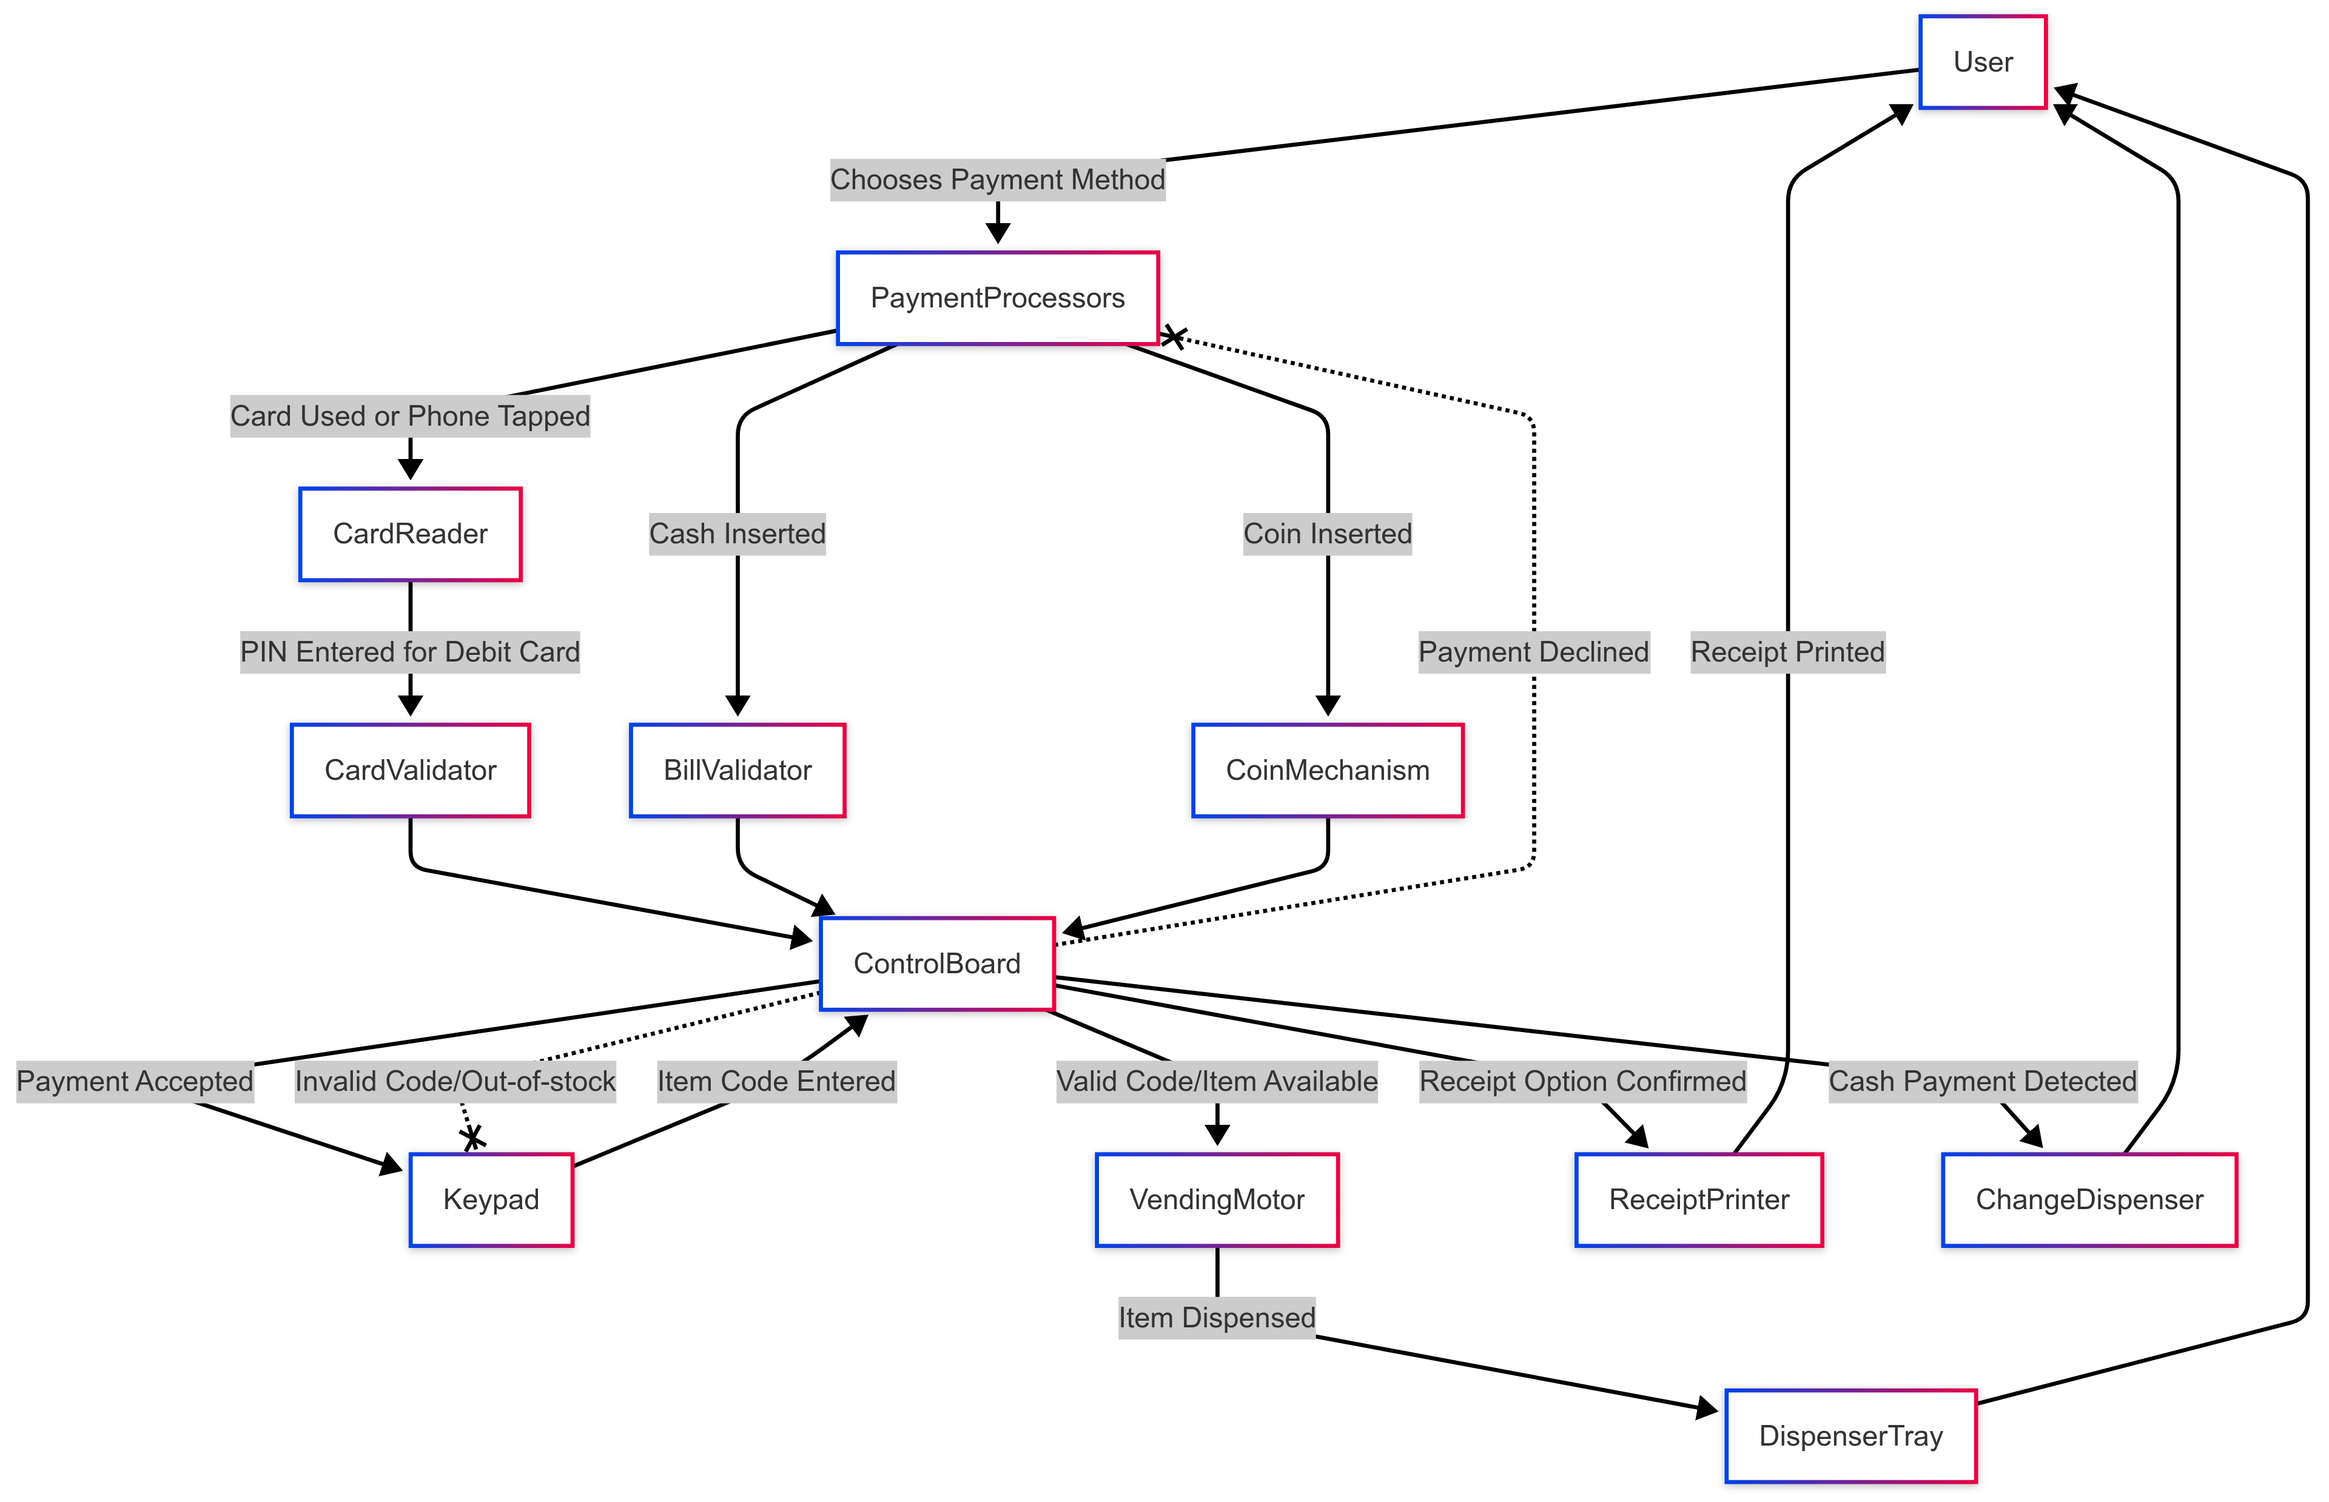
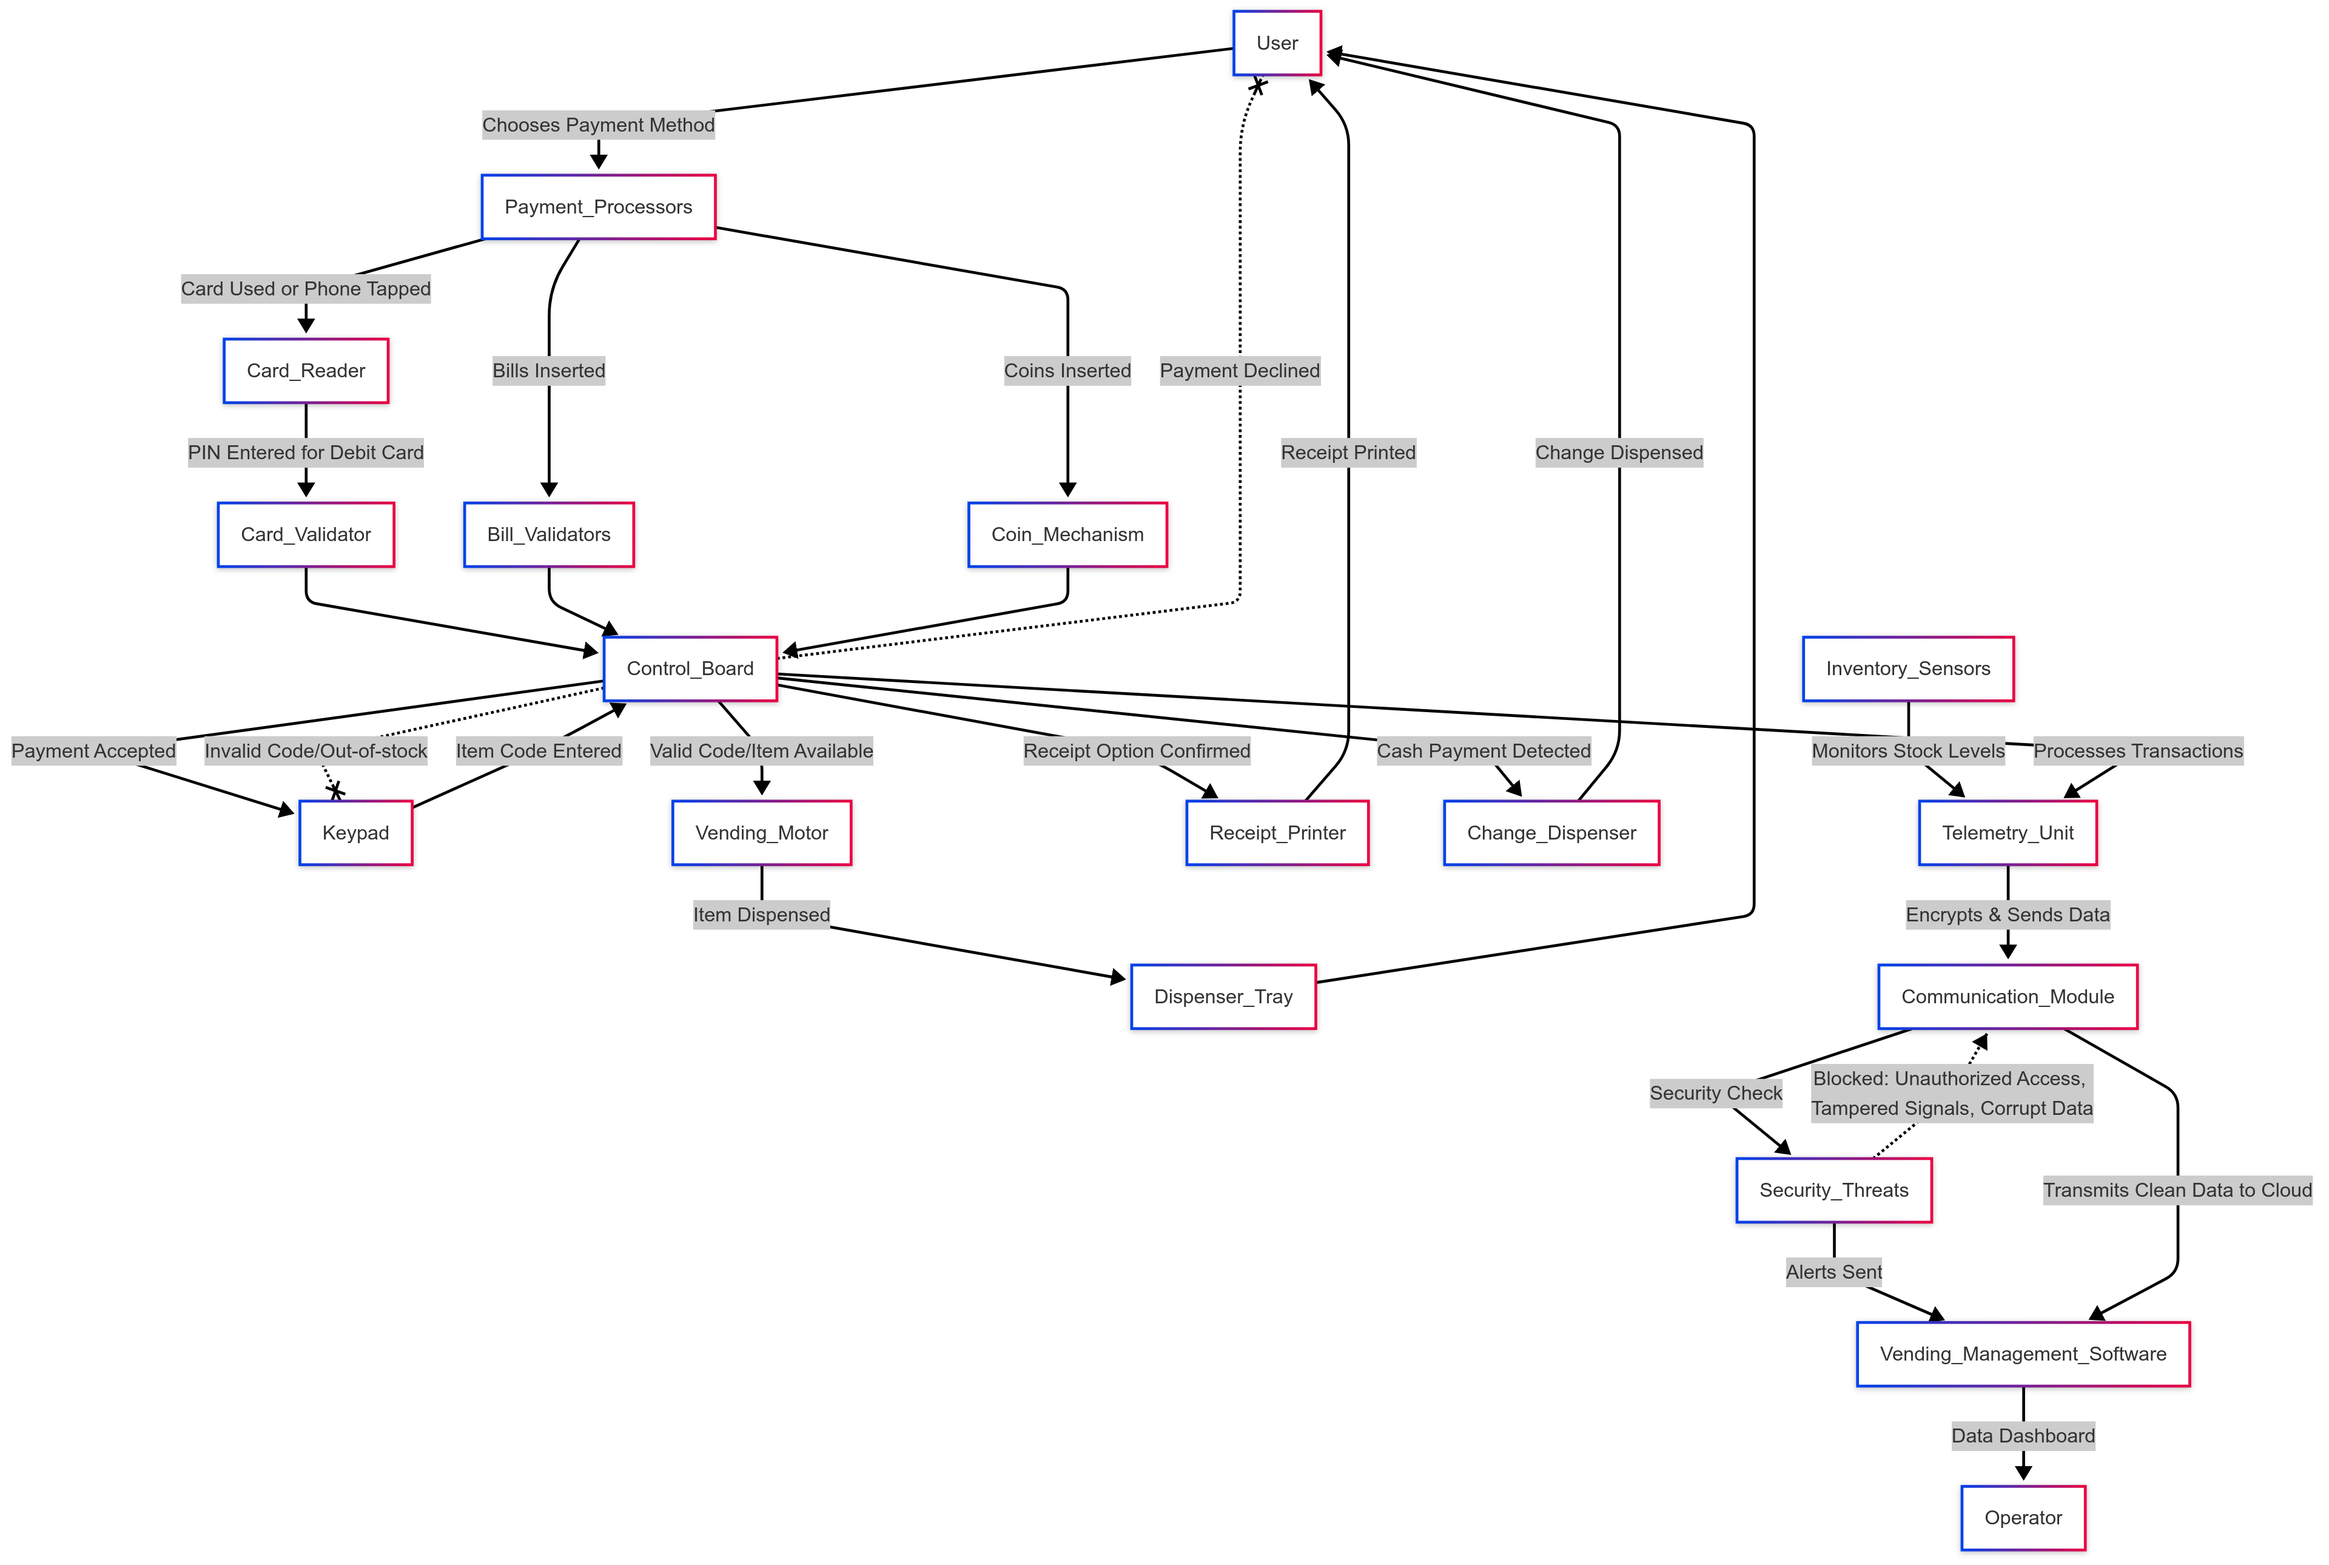
Modified two diagrams and asset analysis

diff --git a/asset-analysis.md b/asset-analysis.md
@@ -1,27 +1,31 @@
 # What assets exists in this system?
-- Control Board: controls the system to execute all operations
-- Credit Reader: allows a machine to communicate with payment system
-- Bill Validator: uses optical sensors that analyze the features of a bill to verify its authenticity
-- Coin Mechanism: uses light sensors to identify, classify, and validate inserted coins
-- Vending Lock: pervents anuthorized users from interfering with your vending inventory or cash
-- Vending Motor: delivers products by transporting a product from the storage area to the dispensing area
-- Refrigerator: keeps products at the desired storage temperature, essential for food
-- Dispensing Tray: holds products in place so they don’t fall to the bottom of the vending machine
-- Product: drink or/and food inside the vending machine
-- Cash and Coins: the physical money to use in transactions
-- Data: credit-card information and system record
+ **Control Board**: Manages the system to execute operations like processing payments, releasing products, tracking inventory, and handling errors.
+- **Communication Module**: Facilitates the secure and efficient exchange of data between system components.
+- **Inventory Sensors**: Track stock levels in real-time and automatically update inventory data.
+- **Credit Reader**: Allows the machine to communicate with the payment system.
+- **Bill Validator**: Verifies the authenticity of bills using optical sensors to analyze their features.
+- **Coin Mechanism**: Identifies, classifies, and validates inserted coins using light sensors.
+- **Vending Lock**: Prevents unauthorized access to the vending inventory and cash.
+- **Vending Motor**: Delivers products by moving them from the storage area to the dispensing area.
+- **Refrigerator**: Maintains the desired storage temperature for products, essential for food items.
+- **Dispensing Tray**: Holds products in place to prevent them from falling to the bottom of the vending machine.
+- **Products**: Drinks and/or food inside the vending machine.
+- **Cash and Coins**: Currency stored within the machine.
+- **Data**: Includes credit card information and system records.
 
 # What assets are most valuable?
 ## Based on Price:
-- Refrigerator: $800
-- Control Board: $500
-- Bill Validator: $300
-- Credit Reader: $200
-- Product: quickly escalated
-- Cash and Coins: quickly escalated
-- Data: loss of income due to false sytem record
+- **Refrigerator**: $800
+- **Control Board**: $500
+- **Communication Module**: $200
+- **Bill Validator**: $300
+- **Credit Reader**: $200
+- **Product**: Value escalates quickly.
+- **Cash and Coins**: Value escalates quickly.
+- **Data**: Loss of income due to inaccurate system records.
+
 ## Based on Risk:
-- Control Board: leaking data and loss of income
-- Credit Reader: leaking data
-- Bill Validator: loss of income
-- Data: harm reputation, sued and compensation, and loss of income
+- **Control Board**: Risk of leaking confidential data and loss of income.
+- **Credit Reader**: Risk of leaking sensitive data.
+- **Bill Validator**: Risk of loss of income due to invalid bills.
+- **Data**: Risk of harming reputation, lawsuits, compensation, and loss of income.
